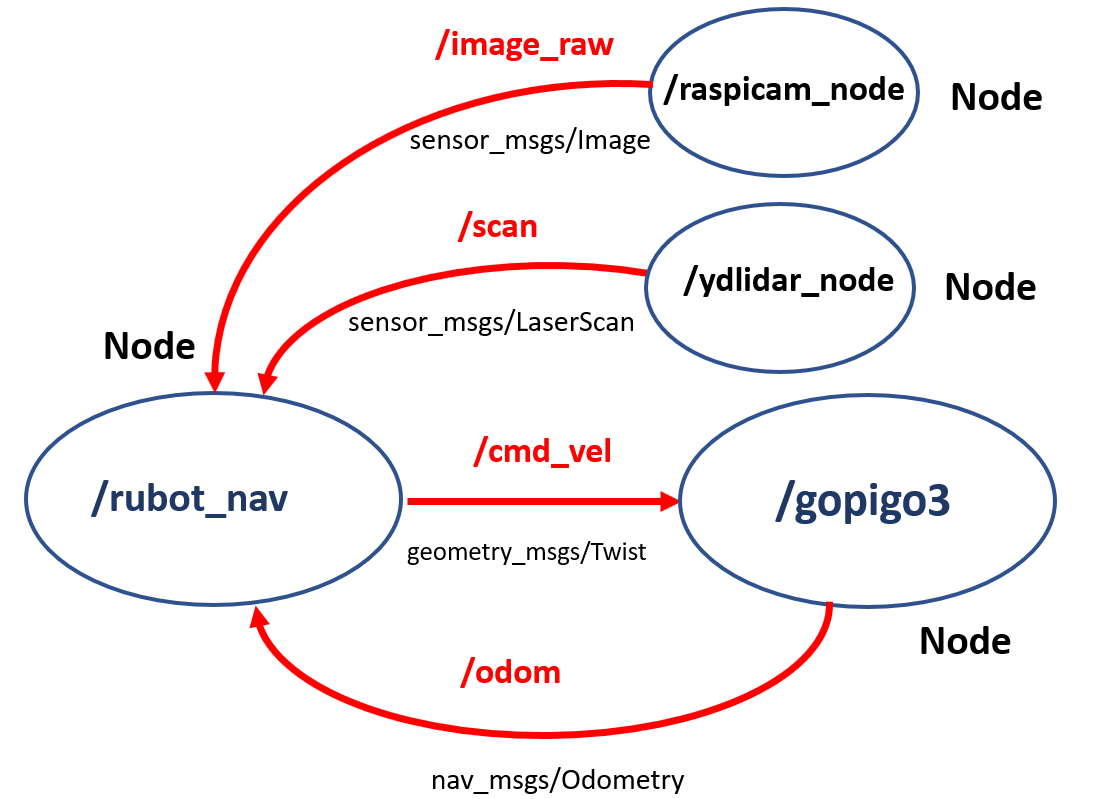
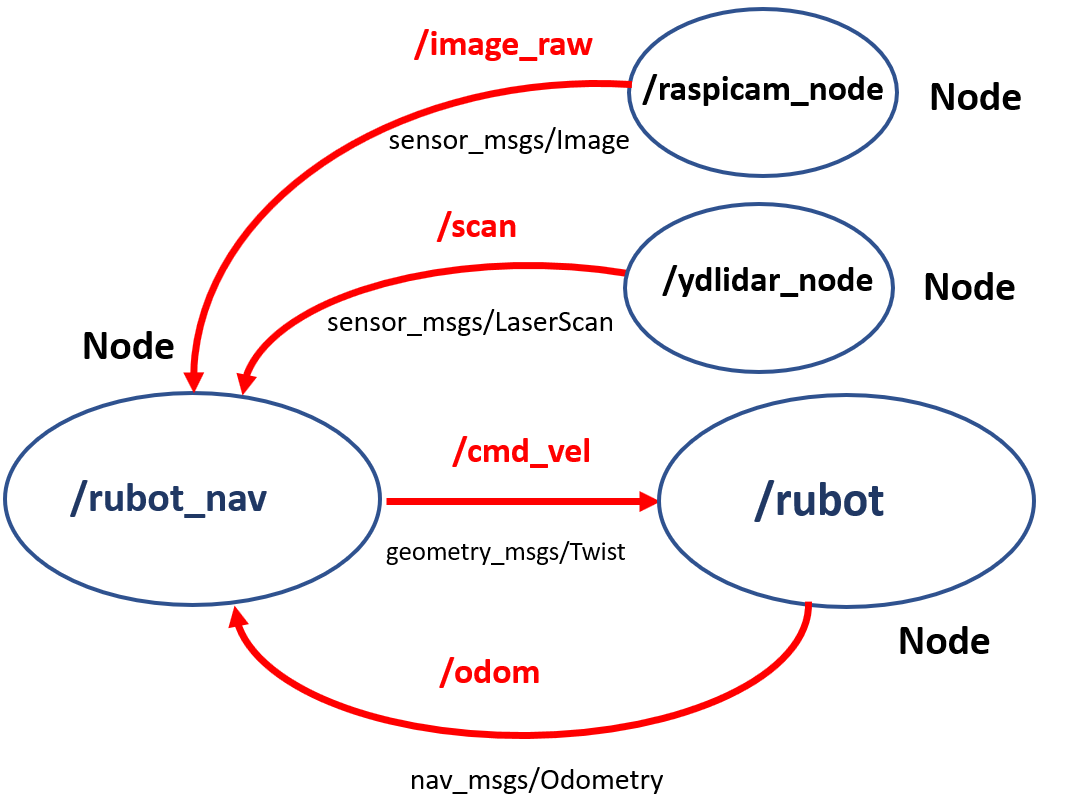
corrections in model and control md

diff --git a/Documentation/files/nexus_model_generation/1_rubot_model&control.md b/Documentation/files/nexus_model_generation/1_rubot_model&control.md
@@ -40,24 +40,29 @@ His main characteristics are:
 
 ## **1. rUBot mecanum model generation**
 
-First of all, we have to create the "rubot_mecanum_description" package where we will create the rUBot model. In case you want to create it from scratch, type:
+The rUBot model we will use is based on the nexus robot model developed in: https://github.com/RBinsonB/nexus_4wd_mecanum_simulator
+
+![](./Images/1_nexus_4wd.png)
+
+We will use this model with some modifications to take into account the different sensors installed onboard.
+
+### **1.1 Nexus mecanum model generation**
+First of all, we have to create the "rubot_mecanum_description" package containing the nexus model. In case you want to create it from scratch, type:
 ```shell
-cd ~/Desktop/ROS_github/rubot_mecanum_ws/src
+cd ~/Desktop/rubot_mecanum_ws/src
 catkin_create_pkg rubot_mecanum_description rospy
 cd ..
 catkin_make
 ```
 Then open the .bashrc file and verify the environment variables and source to the proper workspace:
 ```shell
-source ~/Desktop/ROS_github/rubot_mecanum_ws/devel/setup.bash
+source ~/Desktop/rubot_mecanum_ws/devel/setup.bash
 ```
-> In ROS_windows: add && devel/setup.bat in command line of terminal configuration.
-
 To create our robot model, we use URDF files (Unified Robot Description Format). URDF file is an XML format file for representing a robot model.(http://wiki.ros.org/urdf/Tutorials)
 
 We have created 2 folders for model description:
-- URDF: folder where different URDF models are located. In our case rubot_rp.urdf
-- meshes: folder where 3D body models in stl format are located. We will have rubot folder.
+- URDF: folder where different URDF models are located. In our case nexus.urdf and rubot.urdf
+- meshes: folder where 3D body models in stl format are located. We will have nexus and rubot folders.
 
 You can reduce the amount of code in a URDF file using Xacro package. With this package you can use constants, simple math and macros to create your robot model easier and compact.
 
@@ -79,37 +84,37 @@ The joint definition contains:
 
 In the case or upper left wheel:
 ```xml
-<!-- upper_left_wheel -->
-  <joint name="upper_left_wheel_joint" type="continuous">
-    <origin rpy="0 0 0" xyz="0.07 0.1 0"/>
-    <parent link="base_link"/>
-    <child link="upper_left_wheel"/>
-    <axis xyz="0 1 0"/>
-  </joint>
   <link name="upper_left_wheel">
     <visual>
       <origin rpy="0 0 0" xyz="0 0 0"/>
       <geometry>
-        <mesh filename="package://rubot_mecanum_description/meshes/rubot/upper_left_wheel.stl" scale="0.001 0.001 0.001"/>
+        <mesh filename="package://rubot_mecanum_description/meshes/nexus/mecanum_wheel_left.STL" scale="0.001 0.001 0.001"/>
       </geometry>
       <material name="light_grey"/>
     </visual>
     <collision>
-      <origin rpy="0 0 0" xyz="0 0 0"/>
+      <origin rpy="1.57079632679 0 0" xyz="0 0 0"/>
       <geometry>
-        <mesh filename="package://rubot_mecanum_description/meshes/rubot/upper_left_wheel.stl" scale="0.001 0.001 0.001"/>
+        <cylinder length="0.0505" radius="0.05"/>
       </geometry>
     </collision>
     <inertial>
       <origin rpy="0 0 0" xyz="0.0 0.0 0.0"/>
-      <mass value="0.05"/>
-      <inertia ixx="0.00002" ixy="0" ixz="0" iyy="0.00001" iyz="0" izz="0.00002"/>
+      <mass value="0.3844"/>
+      <!-- Inertia based on cylinder -->
+      <inertia ixx="0.000324824" ixy="0" ixz="0" iyy="0.000480000" iyz="0" izz="0.000324824"/>
     </inertial>
   </link>
+  <joint name="lower_left_wheel_joint" type="continuous">
+    <origin rpy="0 0 0" xyz="0 0.042 0"/>
+    <parent link="lower_left_wheel_shaft"/>
+    <child link="lower_left_wheel"/>
+    <axis xyz="0 1 0"/>
+  </joint>
 ```
 > Be careful with base_link:
 >
-> The inertia matrix can be analytically calculated with the mas and geometry. Be sure the mass is consistent and the inertia Ixx,Iyy and Izz are high enough to avoid underired drift movements. Consider the Inertia matrix you can generate using the inertia.py program file you have in "Documentation/files/URDF".
+> The inertia matrix can be analytically calculated with the mas and geometry. Be sure the mass is consistent and the inertia Ixx,Iyy and Izz are high enough to avoid underired drift movements.
 Possible correct values are
   ```xml
       <inertial>
@@ -133,9 +138,38 @@ Gazebo plugins give your URDF models greater functionality and compatible with R
 
 These plugins can be referenced through a URDF file, and to insert them in the URDF file, you have to follow the sintax:
 ### **Camera sensor plugin**
-This sensor is integrated as a link and fixed joint for visual purposes. Review the joint and link definition in URDF model.
-
-A driver is needed to view the images.
+This sensor is integrated as a link and fixed joint for visual purposes:
+```xml
+  <!-- 2D Camera as a mesh of actual PiCamera -->
+  <link name="camera">
+    <visual>
+      <origin rpy="0 1.570795 0" xyz="0 0 0"/>
+      <geometry>
+        <mesh filename="package://rubot_mecanum_description/meshes/nexus/piCamera.stl" scale="0.0025 0.0025 0.0025"/>
+      </geometry>
+      <material name="yellow"/>
+    </visual>
+    <collision>
+      <origin rpy="0 1.570795 0" xyz="0 0 0"/>
+      <geometry>
+        <box size="0.075 0.075 0.025"/>
+      </geometry>
+    </collision>
+    <inertial>
+      <origin rpy="0 1.570795 0" xyz="0 0 0"/>
+      <mass value="1e-3"/>
+      <inertia ixx="1e-6" ixy="0" ixz="0" iyy="1e-6" iyz="0" izz="1e-6"/>
+    </inertial>
+  </link>
+  <!-- 2D Camera JOINT base_link -->
+  <joint name="joint_camera" type="fixed">
+    <axis xyz="0 0 1"/>
+    <origin rpy="0 0 0" xyz="0.16 0 0.05"/>
+    <parent link="base_link"/>
+    <child link="camera"/>
+  </joint>
+  ```
+  A driver is needed to view the images.
 ```xml
   <!-- 2D Camera controller -->
   <gazebo reference="camera">
@@ -178,7 +212,37 @@ A driver is needed to view the images.
 > -  use rviz
 > - type rqt in a terminal and select Plugins->Visualization->Image View
 ### **LIDAR sensor plugin**
-This sensor is integrated as a link and fixed joint for visual purposes. Review the joint and link definition in URDF model.
+This sensor is integrated as a link and fixed joint for visual purposes:
+```xml
+  <!-- LIDAR base_scan -->
+  <link name="base_scan">
+    <visual name="sensor_body">
+      <origin rpy="0 0 3.14" xyz="0 0 0.04"/>
+      <geometry>
+        <mesh filename="package://rubot_mecanum_description/meshes/nexus/X4.stl" scale="0.0015 0.0015 0.0015"/>
+      </geometry>
+      <material name="yellow"/>
+    </visual>
+    <collision>
+      <origin rpy="0 0 0" xyz="0 0 0.04"/>
+      <geometry>
+        <cylinder length="0.01575" radius="0.0275"/>
+      </geometry>
+    </collision>
+    <inertial>
+      <origin rpy="0 0 0" xyz="0 0 0.4"/>
+      <mass value="0.057"/>
+      <inertia ixx="0.001" ixy="0.0" ixz="0.0" iyy="0.001" iyz="0.0" izz="0.001"/>
+    </inertial>
+  </link>
+  <!-- LIDAR base_scan JOINT base_link -->
+  <joint name="scan_joint" type="fixed">
+    <axis xyz="0 0 1"/>
+    <origin rpy="0 0 3.14" xyz="0 0 0.09"/>
+    <parent link="base_link"/>
+    <child link="base_scan"/>
+  </joint>
+```
 > Note that rpLIDAR is mounted at 180º and you need to turn the link model and the joint to reflect this in the URDF model.
 
 ![](./Images/1_ydlidar.png)
@@ -268,13 +332,13 @@ RViz only represents the robot visual features. You have available all the optio
 ```shell
 roslaunch rubot_mecanum_description display.launch
 ```
-![](./Images/1_rviz_rubot.png)
+![](./Images/1_nexus_urdf.png)
 
 > Colors in rviz: 
 >- are defined at the beginning
 >- Ensure the "visual" link properties have no "name"
 ```xml
-<robot name="rubot">
+<robot name="nexus">
   <material name="yellow">
     <color rgba="0.8 0.8 0.0 1.0"/>
   </material>
@@ -285,7 +349,7 @@ roslaunch rubot_mecanum_description display.launch
     <visual>
       <origin rpy="0 0 0" xyz="0 0 0"/>
       <geometry>
-        <mesh filename="package://rubot_mecanum_description/meshes/rubot/base_link.stl" scale="0.001 0.001 0.001"/>
+        <mesh filename="package://nexus_mecanum/meshes/nexus_base_link.STL" scale="0.001 0.001 0.001"/>
       </geometry>
       <material name="yellow"/>
     </visual>
@@ -298,11 +362,11 @@ roslaunch rubot_mecanum_description display.launch
     <material>Gazebo/Yellow</material>
   </gazebo>
 ```
+### **1.2. rUBot mecanum custom model**
 
-**Activity:**
+We can create a new model in 3D using SolidWorks and use the URDF plugin to generate the URDF file model: rubot_mecanum.urdf
 
-Design a proper model corresponding to the real rUBot_mecanum you will work with.
-![](./Images/1_osoyoo.png)
+![](./Images/1_rubot_mecanum2.png)
 
 You can use FreeCAD to design a custom model and construct manually the URDF file. 
 
@@ -310,6 +374,12 @@ For that it is important to:
 - install in VS Code the ROS extension from Microsoft
 - Press ctrl+shift+p to access the control commands 
 - type ROS and select ROS: Preview URDF
+
+**Activity:**
+
+Design a proper model corresponding to the real rUBot_mecanum you will work with.
+![](./Images/1_osoyoo.png)
+
 The main steps are:
 - Design or obtain the rubot 3D parts. We will deliver the main designed parts (structure, wheels, lidar and camera) and you will have to:
   - contruct the 3D rUBot in freecad ("Documentation/files/Freecad/mainParts")
@@ -443,7 +513,7 @@ Generate a proper world corresponding to the real world we want to spawn our rUB
 
 Save this world as maze.world
 
-### **2.2. Spawn the rUBot robot in project world**
+### **2.2. Spawn the gopigo3 robot in project world**
 
 Now, spawn the rUBot mecanum robot in our generated world. You have to create a "nexus_world.launch" file:
 ``` shell
@@ -451,7 +521,7 @@ roslaunch rubot_mecanum_description rubot_world.launch
 ```
 ![](./Images/1_rubot_world.png)
 
-## **3. rUBot mecanum navigation control in the new world environment**
+## 3. rUBot mecanum navigation control in the new world environment
 
 Once the world has been generated we will create a ROS Package "rubot_control" to perform the autonomous navigation
 ```shell
@@ -518,7 +588,7 @@ This file is:
 ```xml
 <launch>
     <arg name="world" default="square2wall.world"/> 
-    <arg name="model" default="rubot_rp.urdf" />
+    <arg name="model" default="rubot.urdf" />
     <arg name="x_pos" default="0.8"/>
     <arg name="y_pos" default="0.0"/>
     <arg name="yaw" default="1.0"/>
@@ -529,7 +599,7 @@ This file is:
     <!-- spawn nexus -->
     <param name="robot_description" textfile="$(find rubot_mecanum_description)/urdf/$(arg model)" />
     <node pkg="gazebo_ros" type="spawn_model" name="spawn_model"
-      args="-urdf -model rubot -x $(arg x_pos) -y $(arg y_pos) -Y $(arg yaw) -param robot_description" />
+      args="-urdf -model nexus -x $(arg x_pos) -y $(arg y_pos) -Y $(arg yaw) -param robot_description" />
     <!-- send fake joint values -->
     <node name="joint_state_publisher" pkg="joint_state_publisher" type="joint_state_publisher">
       <param name="use_gui" value="False"/>
@@ -565,7 +635,7 @@ rosrun key_teleop key_teleop.py /key_vel:=/cmd_vel
 or
 rosrun teleop_twist_keyboard teleop_twist_keyboard.py
 ```
-![Getting Started](./Images/1_rubot_bringup.png)
+![Getting Started](./Images/1_nexus_mecanum.png)
 #### **3.2.2. Python programming control**
 Diferent navigation programs are created:
 
@@ -617,7 +687,7 @@ To test the LIDAR we have generated a launch file
 roslaunch rubot_control rubot_lidar_test.launch
 rosrun teleop_twist_keyboard teleop_twist_keyboard.py
 ```
-![](./Images/1_rubot_lidar_test.png)
+![](./Images/1_nexus_lidar_test.png)
 > We can see that the zero angle corresponds to the back side of the robot!
 
 #### **c) Autonomous navigation with obstacle avoidance**
@@ -631,7 +701,7 @@ roslaunch rubot_control rubot_self_nav.launch
 - we have included in launch file: gazebo spawn, rviz visualization and rubot_nav node execution 
 - Verify in rviz you have to change the fixed frame to "odom" frame
 
-![](./Images/1_rubot_self.png)
+![](./Images/1_nexus_self.png)
 
 The algorithm description functionality is:
 - "rubot_self_nav.py": The Python script makes the robot go forward. 
@@ -679,7 +749,7 @@ roslaunch rubot_control rubot_wall_follower_gm.launch
 You can see a video for the Maze wall follower process in: 
 [![IMAGE_ALT](https://img.youtube.com/vi/z5sAyiFs-RU/maxresdefault.jpg)](https://youtu.be/z5sAyiFs-RU)
 
-![](./Images/1_rubot_wall_follower_gm.png)
+
 #### **Lidar ranges method**
 
 We have created another rubot_wall_follower_rg.py file based on the reading distances from LIDAR in the ranges: front, front-right, front-left, right, left, back-right and back-left, and perform a specific actuation in function of the minimum distance readings.
@@ -694,7 +764,7 @@ The algorith is based on laser ranges test and depends on the LIDAR type:
 ```shell
 roslaunch rubot_control rubot_wall_follower_rg.launch
 ```
-![](./Images/1_rubot_wall_follower_rg.png)
+![](./Images/1_nexus_wall_follower_rg.png)
 
 #### **Go to POSE**
 Define a specific Position and Orientation as a target point to go:
@@ -709,4 +779,4 @@ For validation type:
 ```shell
 roslaunch rubot_control rubot_go2pose.launch
 ```
-![](./Images/1_rubot_go2pose.png)
+![](./Images/1_nexus_go2pose.png)
